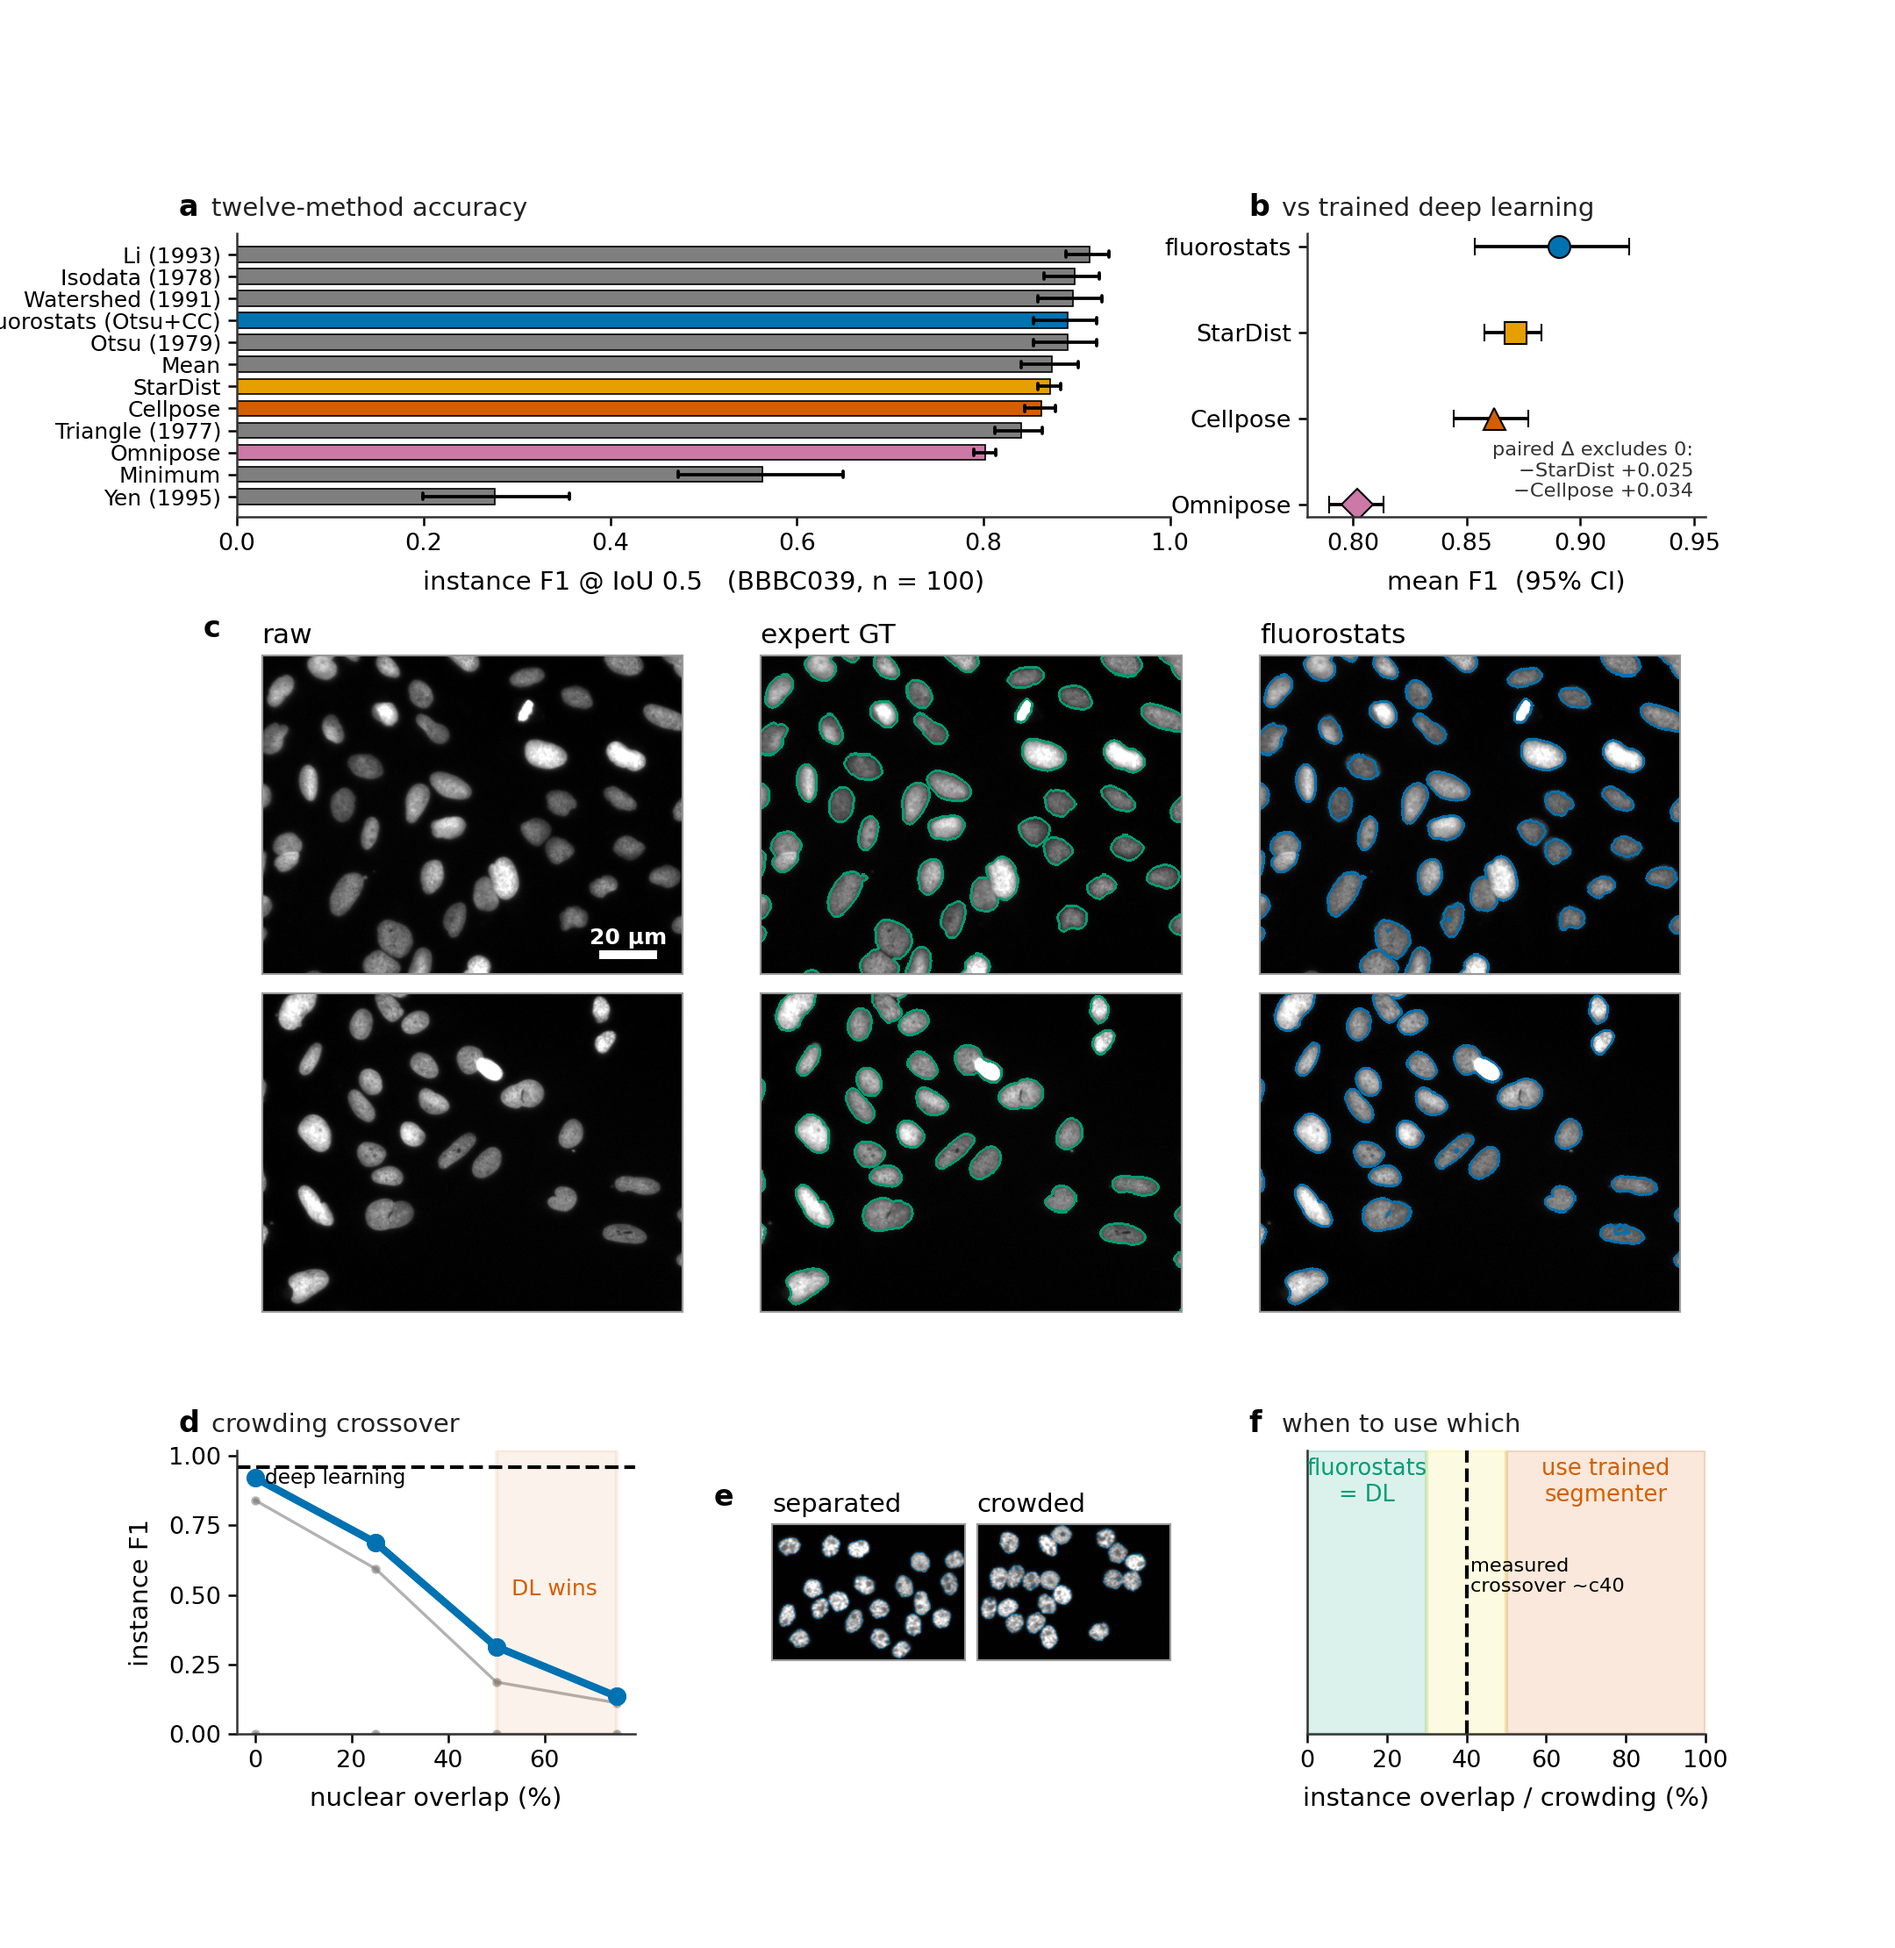
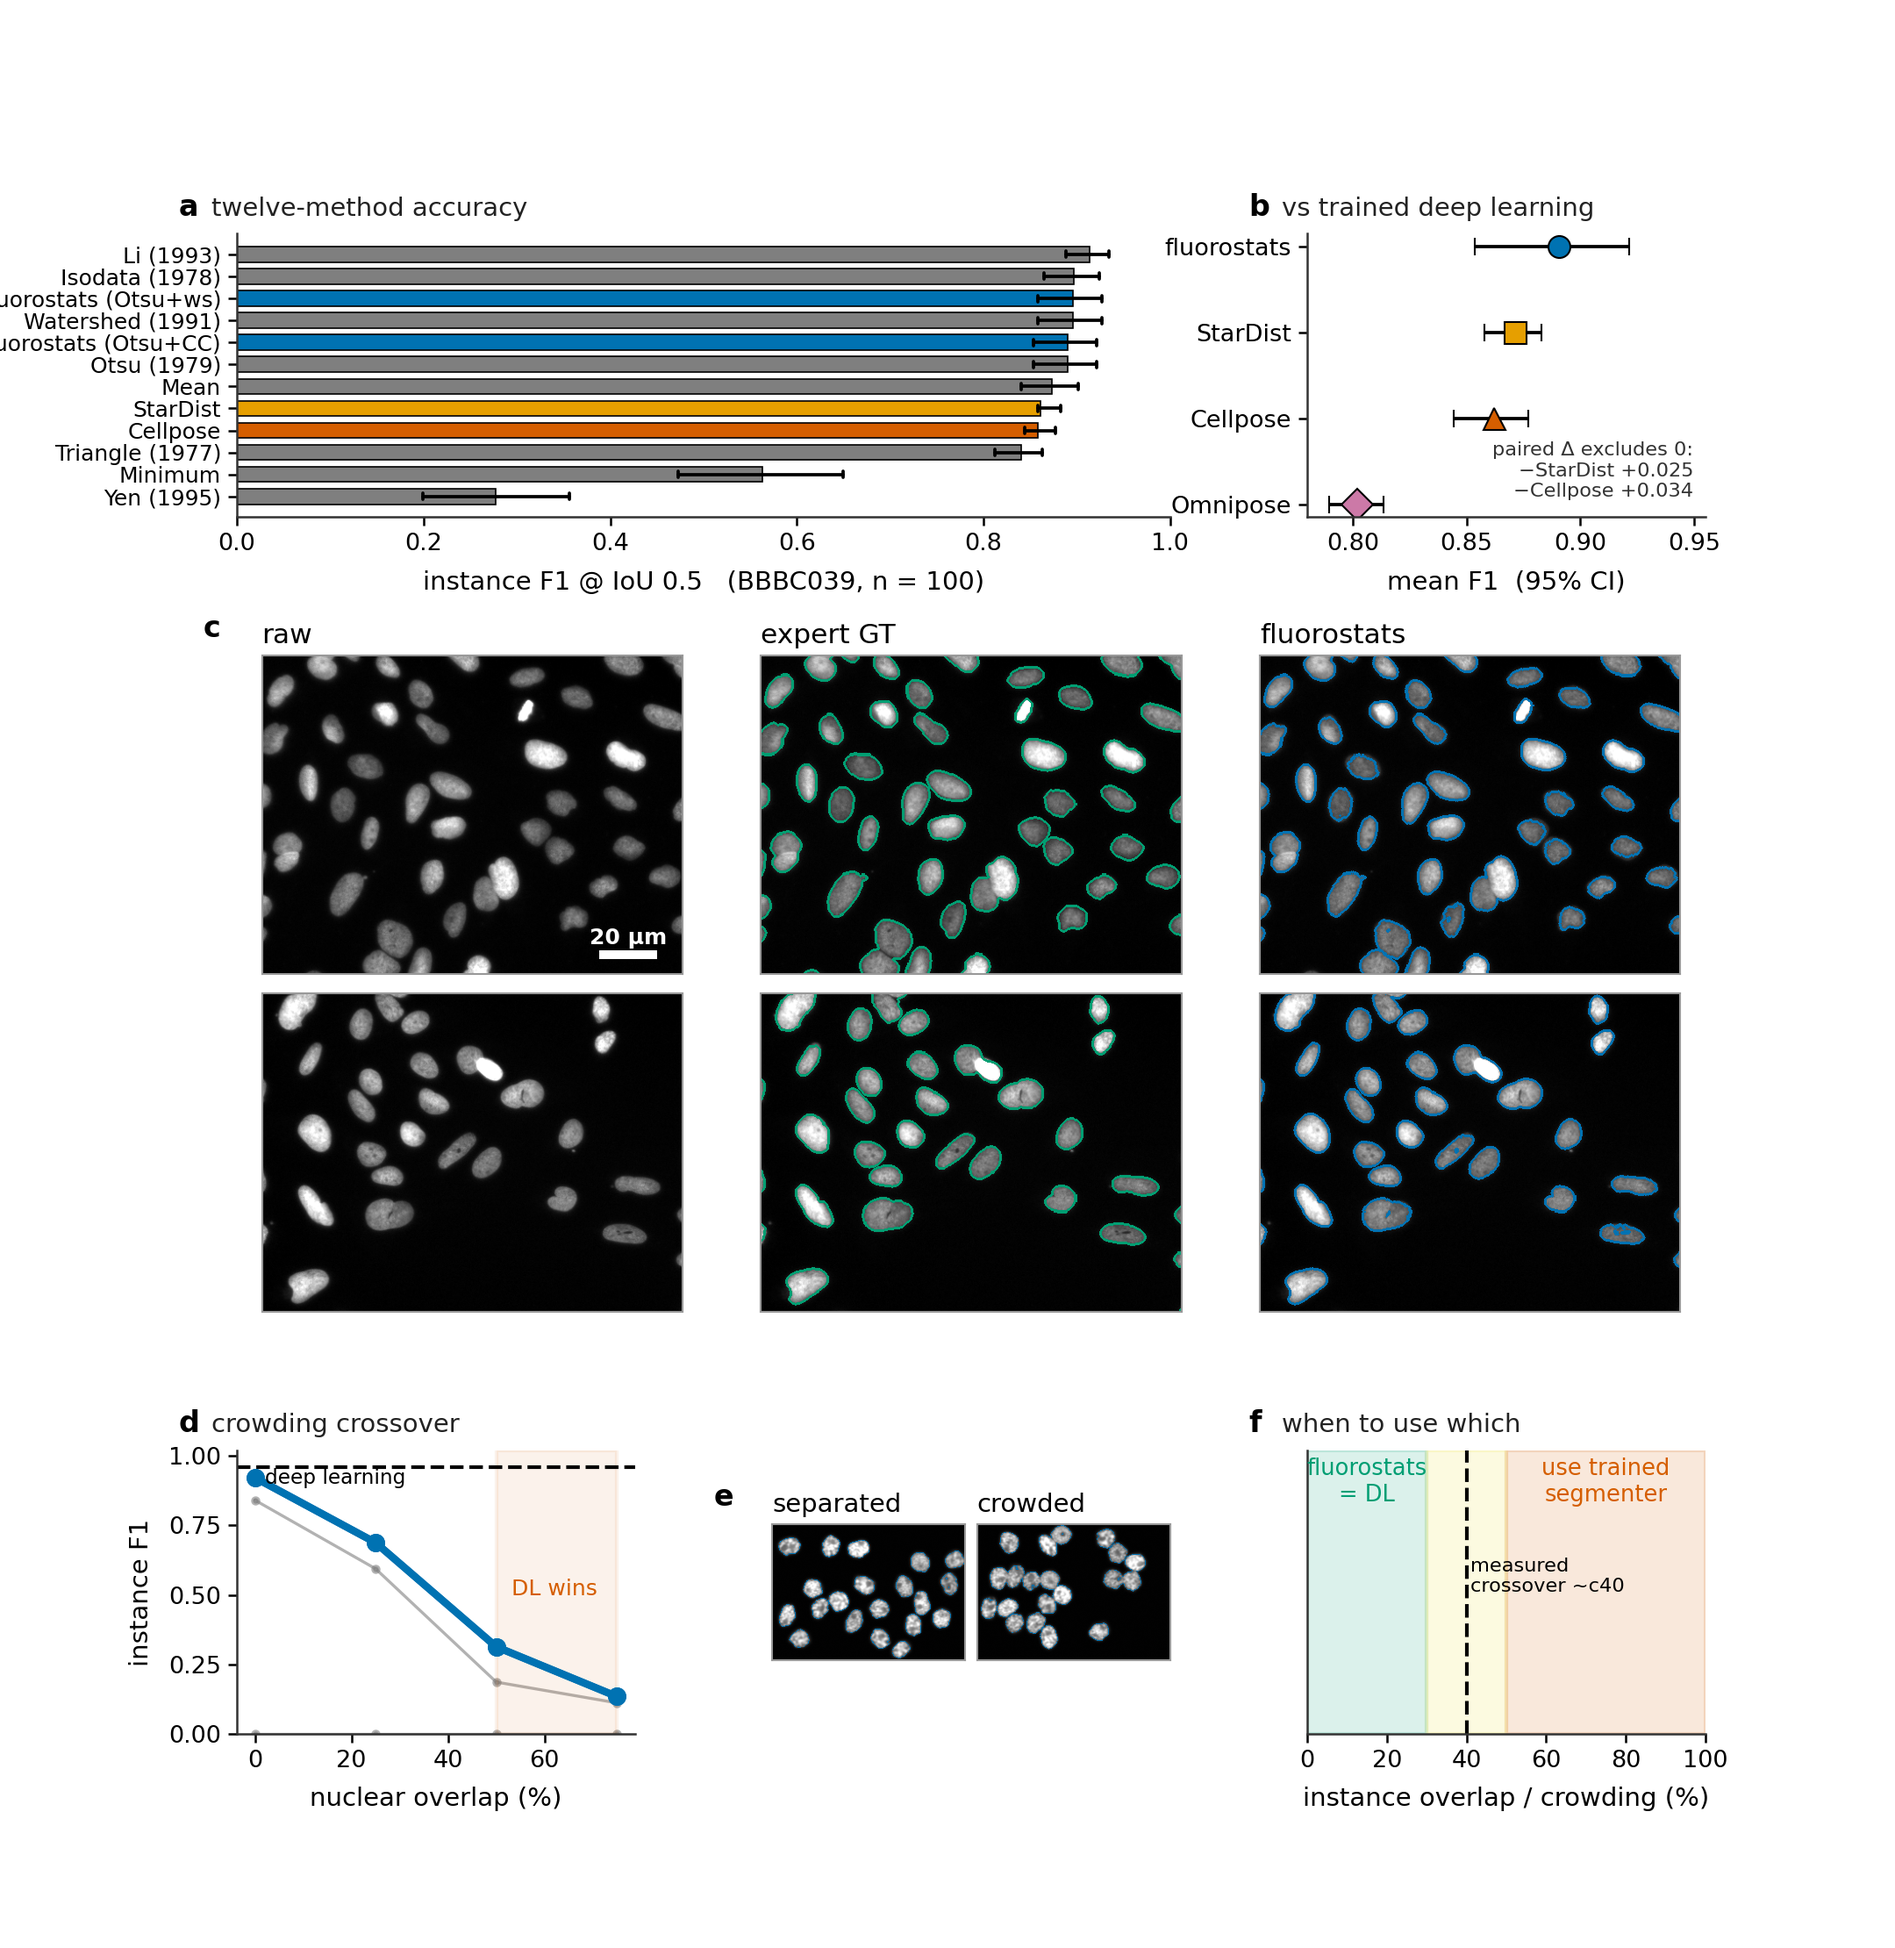
figs: source fig2a ranking from n=100 summary table, drop Omnipose
- Panel (a) now reads the twelve rows of b2_nuclei_methods.csv directly, using
  the exact n=100 F1 values (Li 0.914 … Yen 0.277) as bar heights; whiskers are
  95% bootstrap CIs of the matching per-image scores, so the caption's CI claim
  holds.
- Omnipose removed from panel (a) (still shown in the panel-b forest plot).
- Okabe-Ito unchanged: both fluorostats variants blue, StarDist orange,
  Cellpose vermillion, classical thresholds grey.
- Dropped the now-unused per-method `stats` bootstrap dict.

Changed region(s): [[0.0, 0.1243, 0.5894, 0.2486]]

diff --git a/methods_paper/benchmarks/fig2_nuclei_boundary.py b/methods_paper/benchmarks/fig2_nuclei_boundary.py
@@ -25,21 +25,42 @@ dl_pi = {"StarDist": pd.read_csv(R/"stardist_eval.csv").stardist_f1.values,
          "Omnipose": pd.read_csv(R/"omnipose_eval.csv").query("thirddl_f1>=0").thirddl_f1.values}
 methods = {c: pi[c].values for c in pi.columns if c != "image"}
 methods.update(dl_pi)
-stats = {m: boot_ci(v) for m, v in methods.items()}
 # ---------- layout ----------
 fig = plt.figure(figsize=(7.2, 7.4))
 gs = gridspec.GridSpec(3, 6, figure=fig, height_ratios=[0.82, 1.9, 0.82],
                        hspace=0.34, wspace=1.05)
 
-# (a) 12-method ranking with bootstrap CIs — one hero colour (blue), rest grey
+# (a) twelve-method ranking sourced from the summary table (exact F1 values);
+# no Omnipose. Bar heights are the b2_nuclei_methods.csv means; whiskers are 95%
+# bootstrap CIs of the matching per-image scores. Okabe-Ito: fluorostats blue,
+# StarDist orange, Cellpose vermillion, classical thresholds grey.
 axa = fig.add_subplot(gs[0, :4])
-names = list(stats)
-# tool identity: fluorostats blue, DL tools in their Okabe-Ito colours (StarDist
-# orange, Cellpose vermillion, Omnipose purple), classical thresholds grey
-acol = [F.color_for(m) for m in names]
-F.ranked_barh(axa, names, [stats[m][0] for m in names],
-              [stats[m][1] for m in names], [stats[m][2] for m in names],
-              colors=acol, label_fs=6)
+summ = pd.read_csv(R / "b2_nuclei_methods.csv")
+# summary method name -> (display label, per-image score array for the CI)
+perimg = {
+    "Li_1993": pi["Li (1993)"].values, "Isodata_1978": pi["Isodata (1978)"].values,
+    "Watershed_1991": pi["Watershed (1991)"].values,
+    "fluorostats(Otsu+watershed)": pi["Watershed (1991)"].values,
+    "Otsu_1979": pi["Otsu (1979)"].values,
+    "fluorostats(Otsu+CC)": pi["fluorostats (Otsu+CC)"].values, "Mean": pi["Mean"].values,
+    "StarDist_2018 (DL)": dl_pi["StarDist"], "Cellpose_2021 (DL)": dl_pi["Cellpose"],
+    "Triangle_1977": pi["Triangle (1977)"].values, "Minimum": pi["Minimum"].values,
+    "Yen_1995": pi["Yen (1995)"].values,
+}
+disp = {
+    "Li_1993": "Li (1993)", "Isodata_1978": "Isodata (1978)", "Watershed_1991": "Watershed (1991)",
+    "fluorostats(Otsu+watershed)": "fluorostats (Otsu+ws)", "Otsu_1979": "Otsu (1979)",
+    "fluorostats(Otsu+CC)": "fluorostats (Otsu+CC)", "Mean": "Mean",
+    "StarDist_2018 (DL)": "StarDist", "Cellpose_2021 (DL)": "Cellpose",
+    "Triangle_1977": "Triangle (1977)", "Minimum": "Minimum", "Yen_1995": "Yen (1995)",
+}
+labels, means, los, his, acol = [], [], [], [], []
+for _, r in summ.iterrows():
+    m = r["method"]
+    labels.append(disp[m]); means.append(float(r["mean_F1"]))
+    _, lo, hi = boot_ci(perimg[m]); los.append(lo); his.append(hi)
+    acol.append(F.color_for(m))
+F.ranked_barh(axa, labels, means, los, his, colors=acol, label_fs=6)
 axa.set_xlim(0, 1.0); axa.set_xlabel("instance F1 @ IoU 0.5   (BBBC039, n = 100)")
 panel(axa, "a", "twelve-method accuracy")
 
